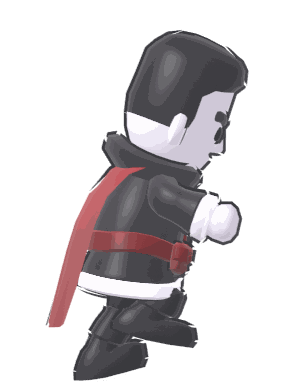
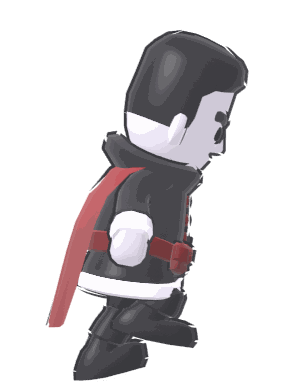
Halloween: one flyer in the room, the zombie meets the others, the vampire peeks first
Flying is one at a time in the whole room (like walkers), flyers cross at most 4 screens.
meets (theme): an element may come while one of those is on the screen (the zombie with the
vampire, frankenstein, mummy, a skeleton); the two then stay on that screen. The woven web is up
about a third of the time, starting at random. No more vampire and zombie peekers, no owl.
The vampire peeks round the corner once or twice before he comes in, and sneaks hunched with
his arms down (no longer as if pushing). Sim: --videos (one per window) and --play N (windows
0..N-1 play on and on, the rest show the intro); a video's own .srt is used.

Claude-Session: https://claude.ai/code/session_01WxBhhB9QxorZLCmzVHELkL

Changed region(s): [[0.3701, 0.4375, 0.5694, 0.7188], [0.5409, 0.4375, 0.8826, 0.6562]]

diff --git a/tools/kiosksim/multi.py b/tools/kiosksim/multi.py
@@ -5,6 +5,10 @@ engine, its own room-bus node (UDP over 127.0.0.1), and the same ThemeRoom bridg
 so animations move from one window to the next.
 
     multi.py [n=4] [level=8] [--gap 16] [--mode idle|video] [--cols 2] [--rows] [--no-wrap]
+             [--videos a.mp4 b.mp4 ...] [--play 3]
+
+--videos: window i gets the i-th (round and round; default run.sh's); --play N: windows 0..N-1
+play theirs on and on from the start (the others show the intro), SPACE in a window toggles.
 
 The windows are one row of screens all round the room (k0 → k1 → ... → the last → k0 again),
 whatever the window grid; --rows: each row of windows its own row of screens (nothing crosses
@@ -51,14 +55,14 @@ def geometry(i, n, cols):
 
 
 class Kiosk:
-    def __init__(self, i, n, gap_px, cols, rows=False, wrap=True):
+    def __init__(self, i, n, gap_px, cols, rows=False, wrap=True, video=None, loop=False):
         self.i, self.n = i, n
         self.dir = BASE_DIR / f"k{i}"
         self.dir.mkdir(parents=True, exist_ok=True)
         w, h, x, y = geometry(i, n, cols)
         env = dict(os.environ, KIOSKSIM_DIR=str(self.dir), KIOSKSIM_GEOMETRY=f"{w}x{h}+{x}+{y}",
-                   KIOSKSIM_TITLE=f"kiosk{i}")
-        self.proc = subprocess.Popen([str(HERE / "run.sh")], env=env, stdout=subprocess.DEVNULL,
+                   KIOSKSIM_TITLE=f"kiosk{i}", KIOSKSIM_LOOP="yes" if loop else "no")
+        self.proc = subprocess.Popen([str(HERE / "run.sh")] + ([video] if video else []), env=env, stdout=subprocess.DEVNULL,
                                      stderr=subprocess.DEVNULL, start_new_session=True)
         sock = self.dir / "mpv.sock"
         for _ in range(100):
@@ -118,6 +122,10 @@ class Kiosk:
         self.cmd("script-message", "theme-load", str(man))
         self.cmd("script-message", "theme-mode", mode)
 
+    def play(self):
+        self.mode = "video"             # (a reload after a resize keeps it)
+        self.cmd("script-message", "kiosk-play")
+
 
 def shot(path):
     """The whole row in one picture (each window's own screenshot, pasted side by side)."""
@@ -160,11 +168,16 @@ def main():
     ap.add_argument("--cols", type=int, default=2, help="windows per row (n for one row)")
     ap.add_argument("--rows", action="store_true", help="each row of windows its own row of screens")
     ap.add_argument("--no-wrap", action="store_true", help="the last screen's right edge leads nowhere")
+    ap.add_argument("--videos", nargs="+", default=[], help="a video per window (round and round)")
+    ap.add_argument("--play", type=int, default=0, help="windows 0..N-1 play their video on and on")
     a = ap.parse_args()
     signal.signal(signal.SIGTERM, lambda *_: sys.exit(0))     # kill: close the windows too
-    kiosks = [Kiosk(i, a.n, a.gap, max(1, min(a.cols, a.n)), a.rows, not a.no_wrap) for i in range(a.n)]
+    kiosks = [Kiosk(i, a.n, a.gap, max(1, min(a.cols, a.n)), a.rows, not a.no_wrap,
+                    a.videos[i % len(a.videos)] if a.videos else None, i < a.play) for i in range(a.n)]
     for k in kiosks:
         k.load(a.level, a.mode)
+    for k in kiosks[:a.play]:
+        k.play()
     print(f"{a.n} kiosks, level {a.level}; 'multi.py key 0 b' sends a flyer. Ctrl+C to stop.")
     try:
         while all(k.proc.poll() is None for k in kiosks):
